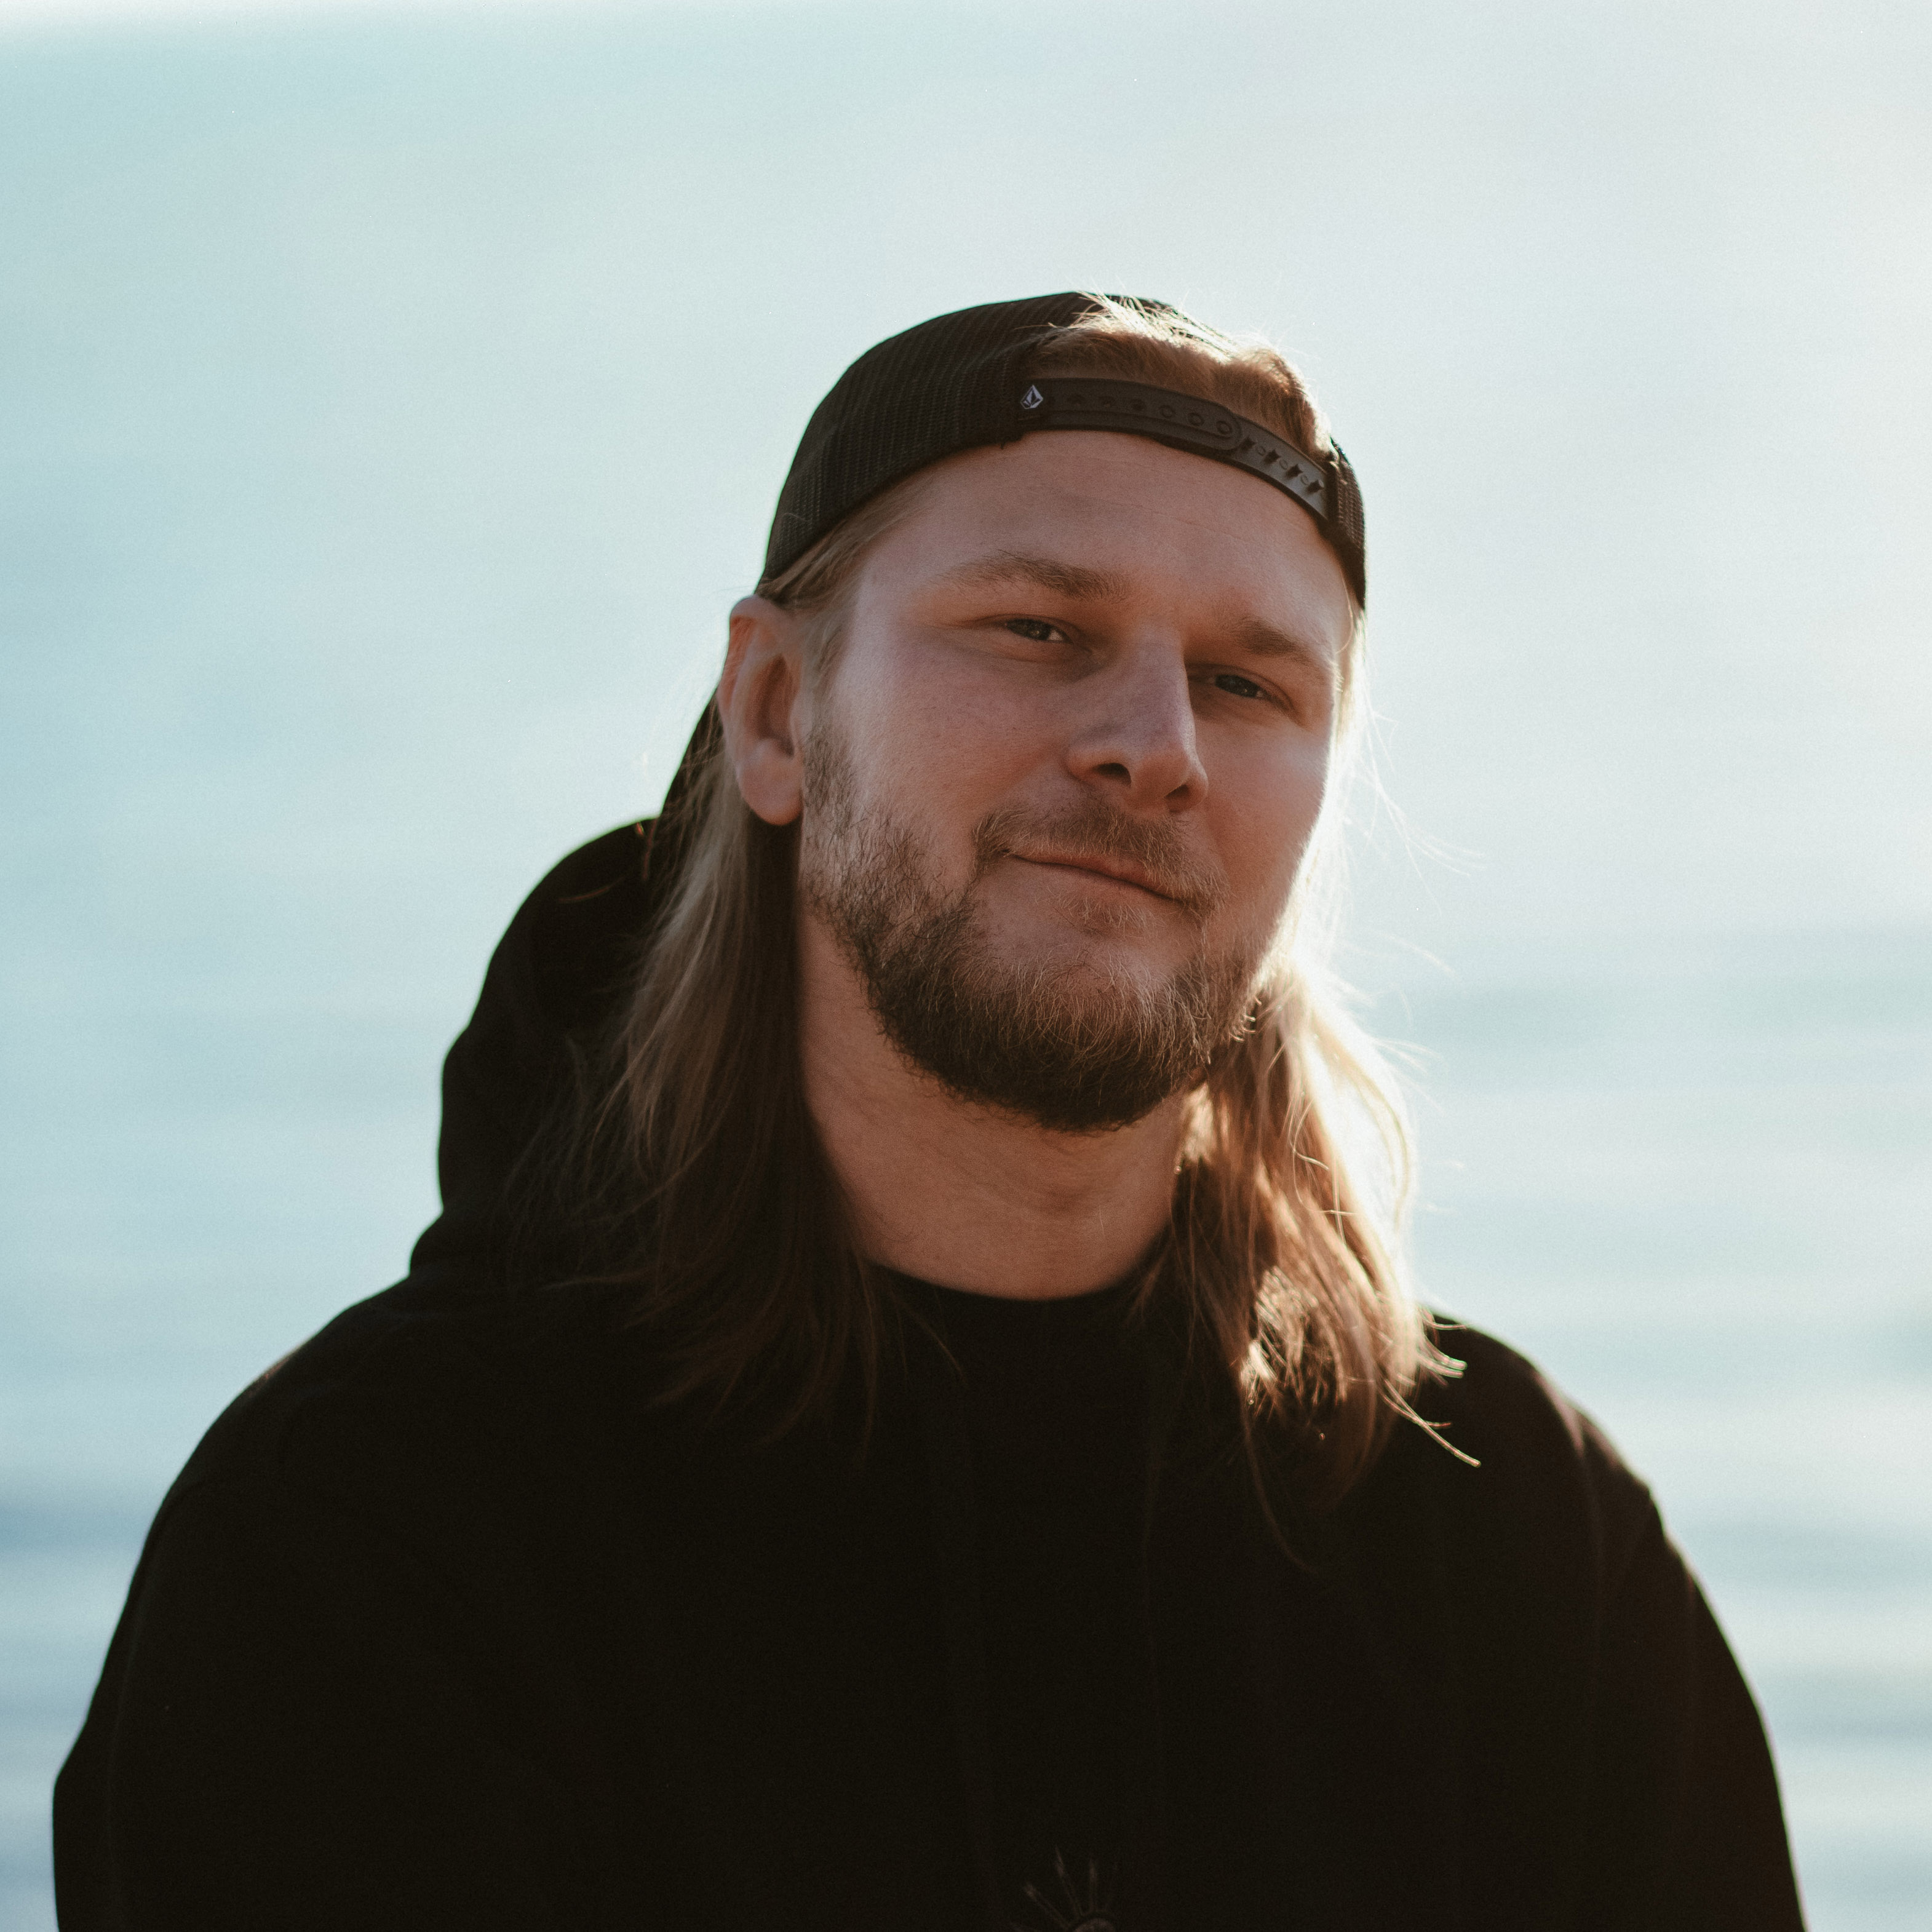
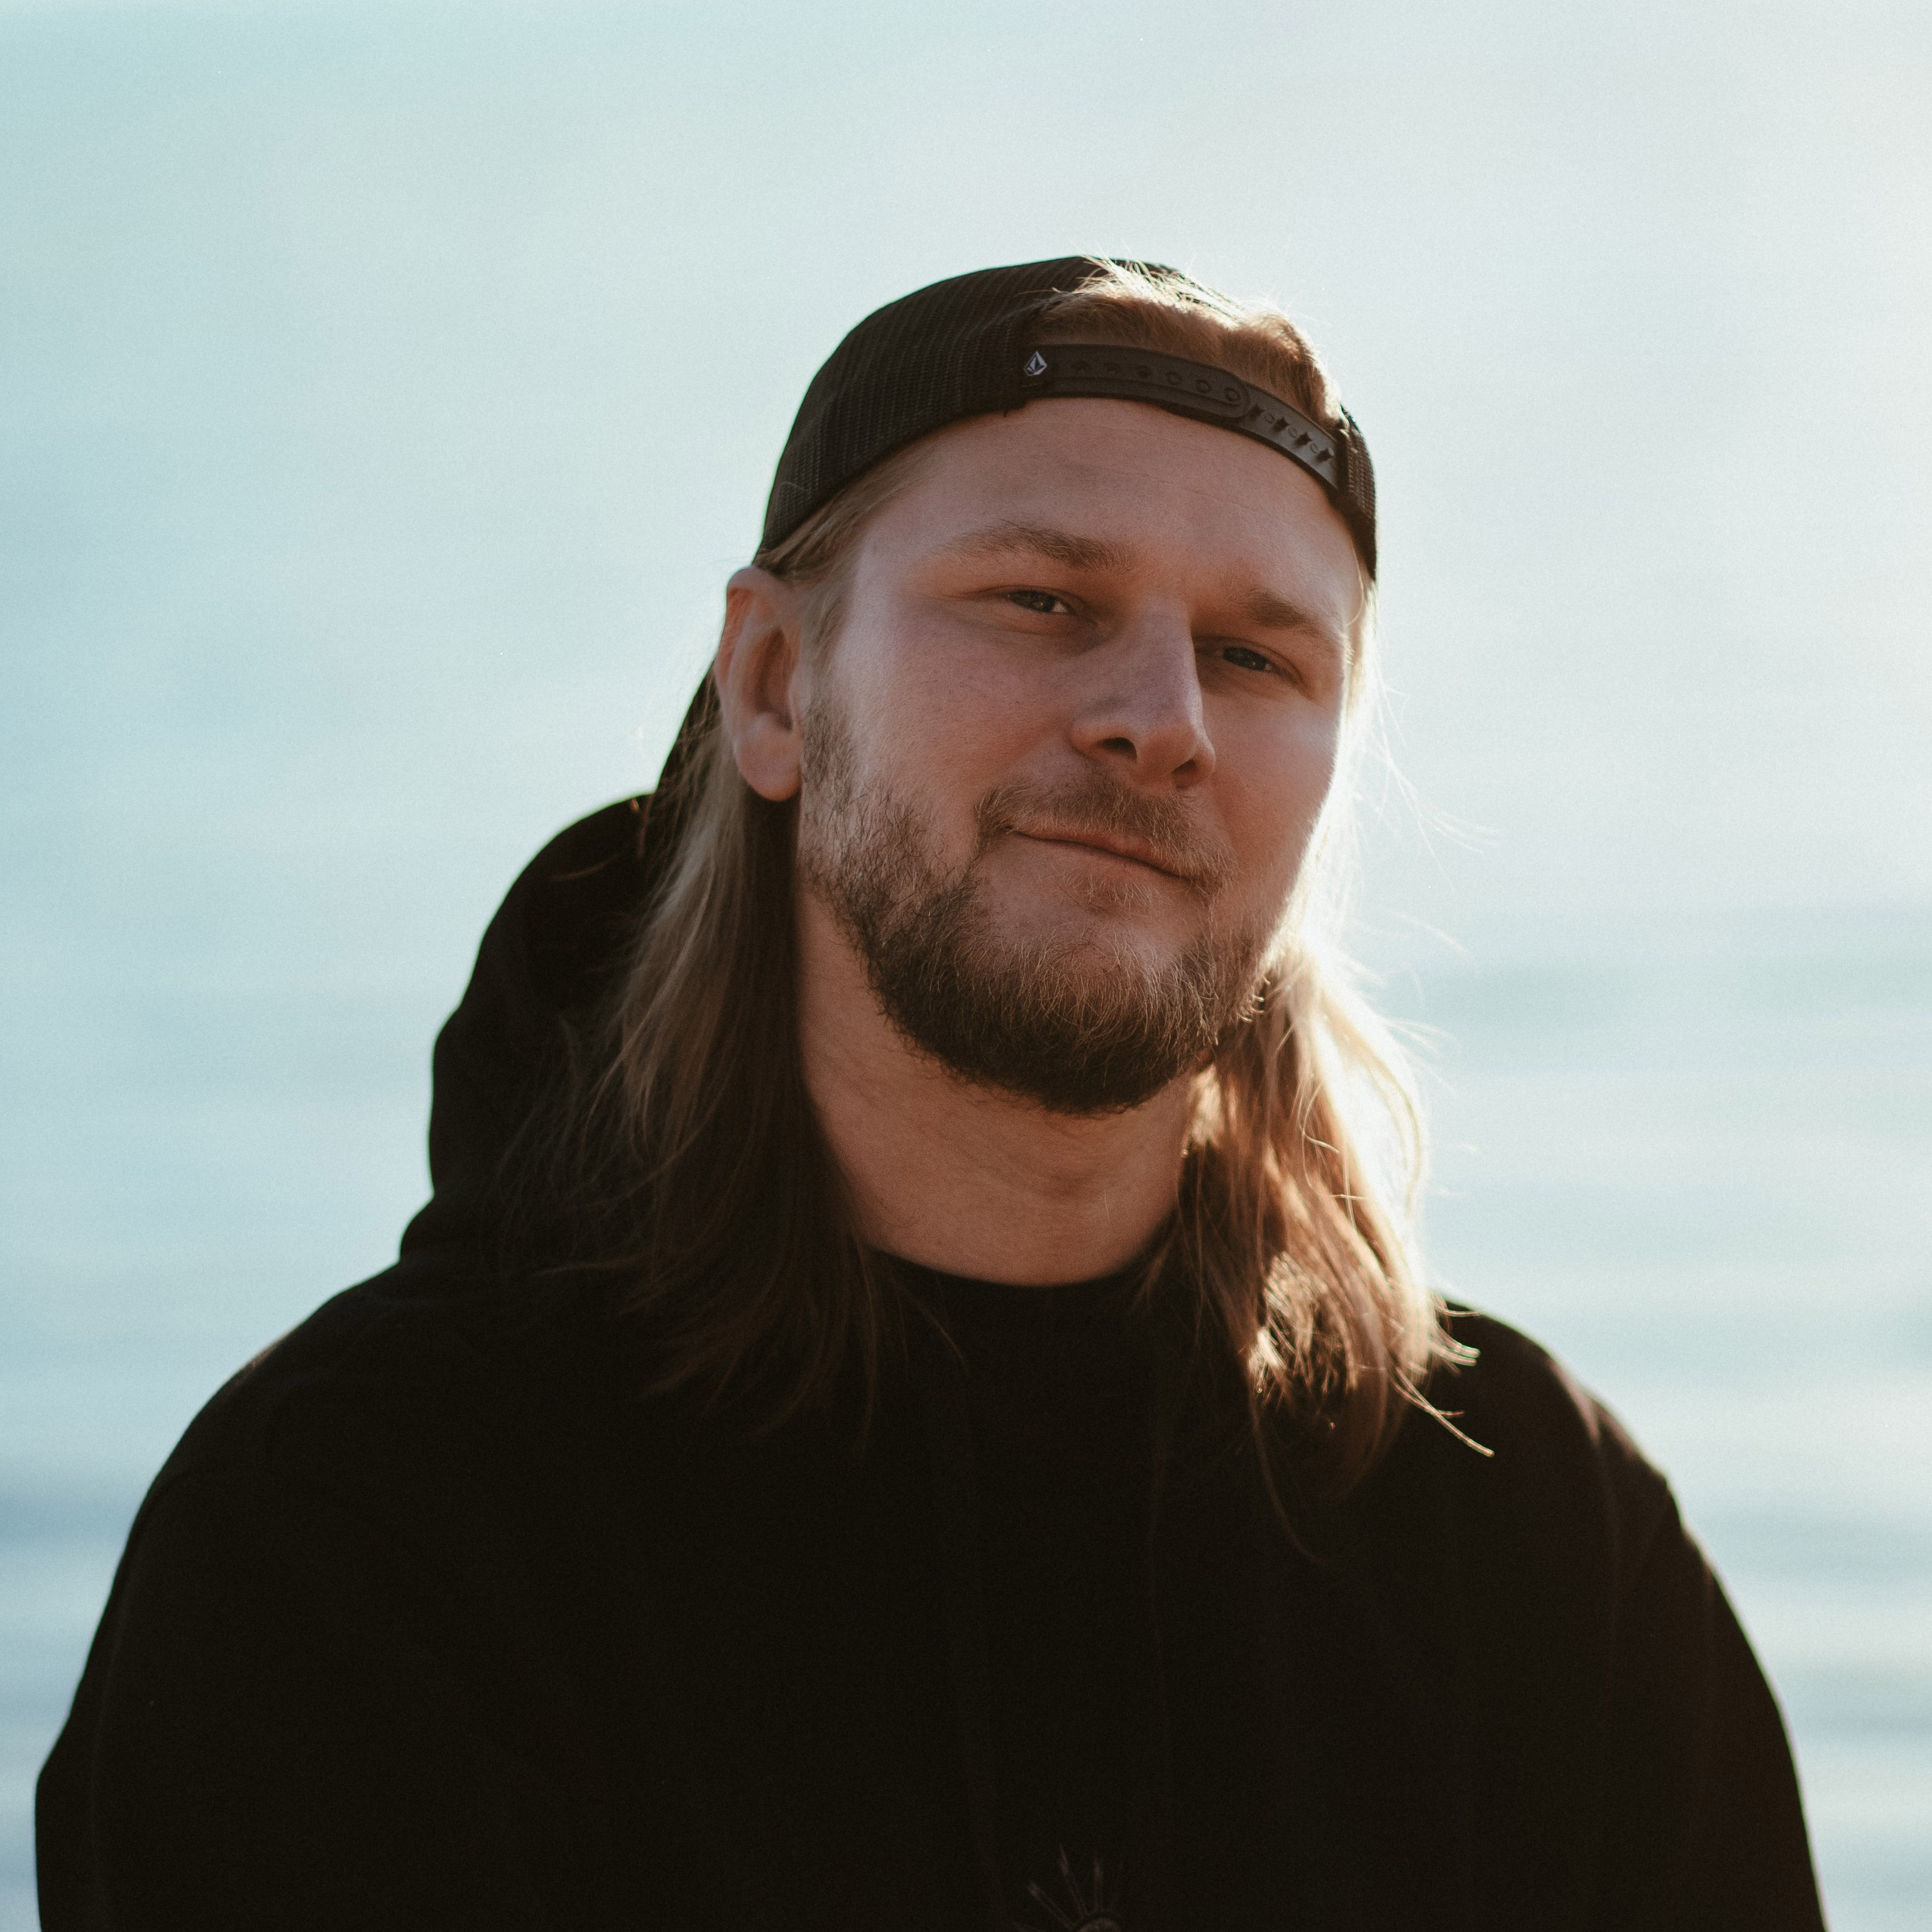
buttons are in the same style across every section, theme fixes

diff --git a/assets/style.css b/assets/style.css
@@ -4,9 +4,9 @@
 
 :root,
 [data-theme="light"] {
-  --bg: #efefef;
-  --surface: #f4f4f4;
-  --surface-2: #e9e9e9;
+  --bg: #d8d8d8;
+  --surface: #e8e8e8;
+  --surface-2: #dcdcdc;
   --line: rgba(55, 55, 55, 0.12);
   --line-strong: rgba(55, 55, 55, 0.20);
   --text: #1a1a1a;
@@ -452,12 +452,6 @@ h3 {
 
 .cv-mobile-link {
   display: none;
-  min-height: 44px;
-  padding: 12px 16px;
-  border-radius: var(--radius-xs);
-  border: 1px solid var(--line);
-  background: transparent;
-  color: var(--text);
   text-align: center;
 }
 
@@ -473,13 +467,8 @@ h3 {
 .contact-links {
   display: flex;
   flex-direction: column;
-  align-items: start;
+  align-items: stretch;
   gap: 16px;
-}
-
-.contact-links a {
-  color: var(--text);
-  font-size: 1.1rem;
 }
 
 .site-footer {
@@ -1098,19 +1087,20 @@ h3 {
     justify-content: center;
     align-items: center;
     width: 100%;
-    min-height: 56px;
-    padding: 14px 16px;
-    border-radius: var(--radius-xs);
-    background: var(--surface-2);
-    border: 1px solid var(--line);
-    color: var(--text);
-    text-align: center;
+    min-height: 44px;
+    padding: 12px 16px;
     box-sizing: border-box;
     text-decoration: none;
     font-weight: 500;
   }
-    .contact-links {
+
+  .cv-box {
+  padding: 0;
+  }
+
+  .contact-links {
     width: 100%;
+    align-items: stretch;
   }
 
   .contact-links a {
@@ -1124,6 +1114,7 @@ h3 {
     border: 1px solid var(--line);
     color: var(--text);
     text-decoration: none;
+    text-align: center;
   }
 }
 

diff --git a/index.html b/index.html
@@ -67,8 +67,8 @@
 <section class="section" id="projects">
 <div class="container">
 <div class="section-intro reveal">
-<h2>Projects</h2>
-<p>Selected work from released titles. Current/unreleased projects detailed in CV, respecting NDA.</p>
+<h2>Projects and Media</h2>
+<p>Selected work from released titles and various media. Current/unreleased projects detailed in CV, respecting NDA.</p>
 </div>
 
 
@@ -123,7 +123,7 @@
 <div class="project-topline">
 </div>
 <h3>Other Media</h3>
-<p>Misc apperances</p>
+<p>Misc appearances</p>
 <div class="project-cta">Explore →</div>
 </div>
 </a>
@@ -143,10 +143,10 @@
           title="Andrii Krasavin CV"
           loading="lazy">
   </iframe>
-  <a class="cv-mobile-link btn btn-secondary" ...>Open CV in new tab</a>
+    <a class="cv-mobile-link btn btn-primary" href="./assets/CV/AndriiKrasavin2026CV.pdf" target="_blank" rel="noopener noreferrer">Open CV in new tab</a>
 </div>
     <div class="cv-actions cv-desktop-only">
-    <a class="btn btn-primary" href="./assets/CV/AndriiKrasavin2026CV.pdf" download>Download</a>
+    <a class="btn btn-secondary" href="./assets/CV/AndriiKrasavin2026CV.pdf" download>Download</a>
 </div>
   </div>
 </div>
@@ -161,9 +161,9 @@
 </div>
 <div class="content-card reveal delay-1 contact-panel-box">
 <div class="contact-links">
-<a href="mailto:[email redacted]">Email</a>
-<a href="https://www.linkedin.com/in/andriikrasavin//" target="_blank" rel="noopener noreferrer">LinkedIn</a>
-<a href="https://www.artstation.com/akrasavin" target="_blank" rel="noopener noreferrer">ArtStation</a>
+<a class="btn btn-secondary" href="mailto:[email redacted]">Email</a>
+<a class="btn btn-secondary" href="https://www.linkedin.com/in/andriikrasavin//" target="_blank" rel="noopener noreferrer">LinkedIn</a>
+<a class="btn btn-secondary" href="https://www.artstation.com/akrasavin" target="_blank" rel="noopener noreferrer">ArtStation</a>
 </div>
 </div>
 </div>